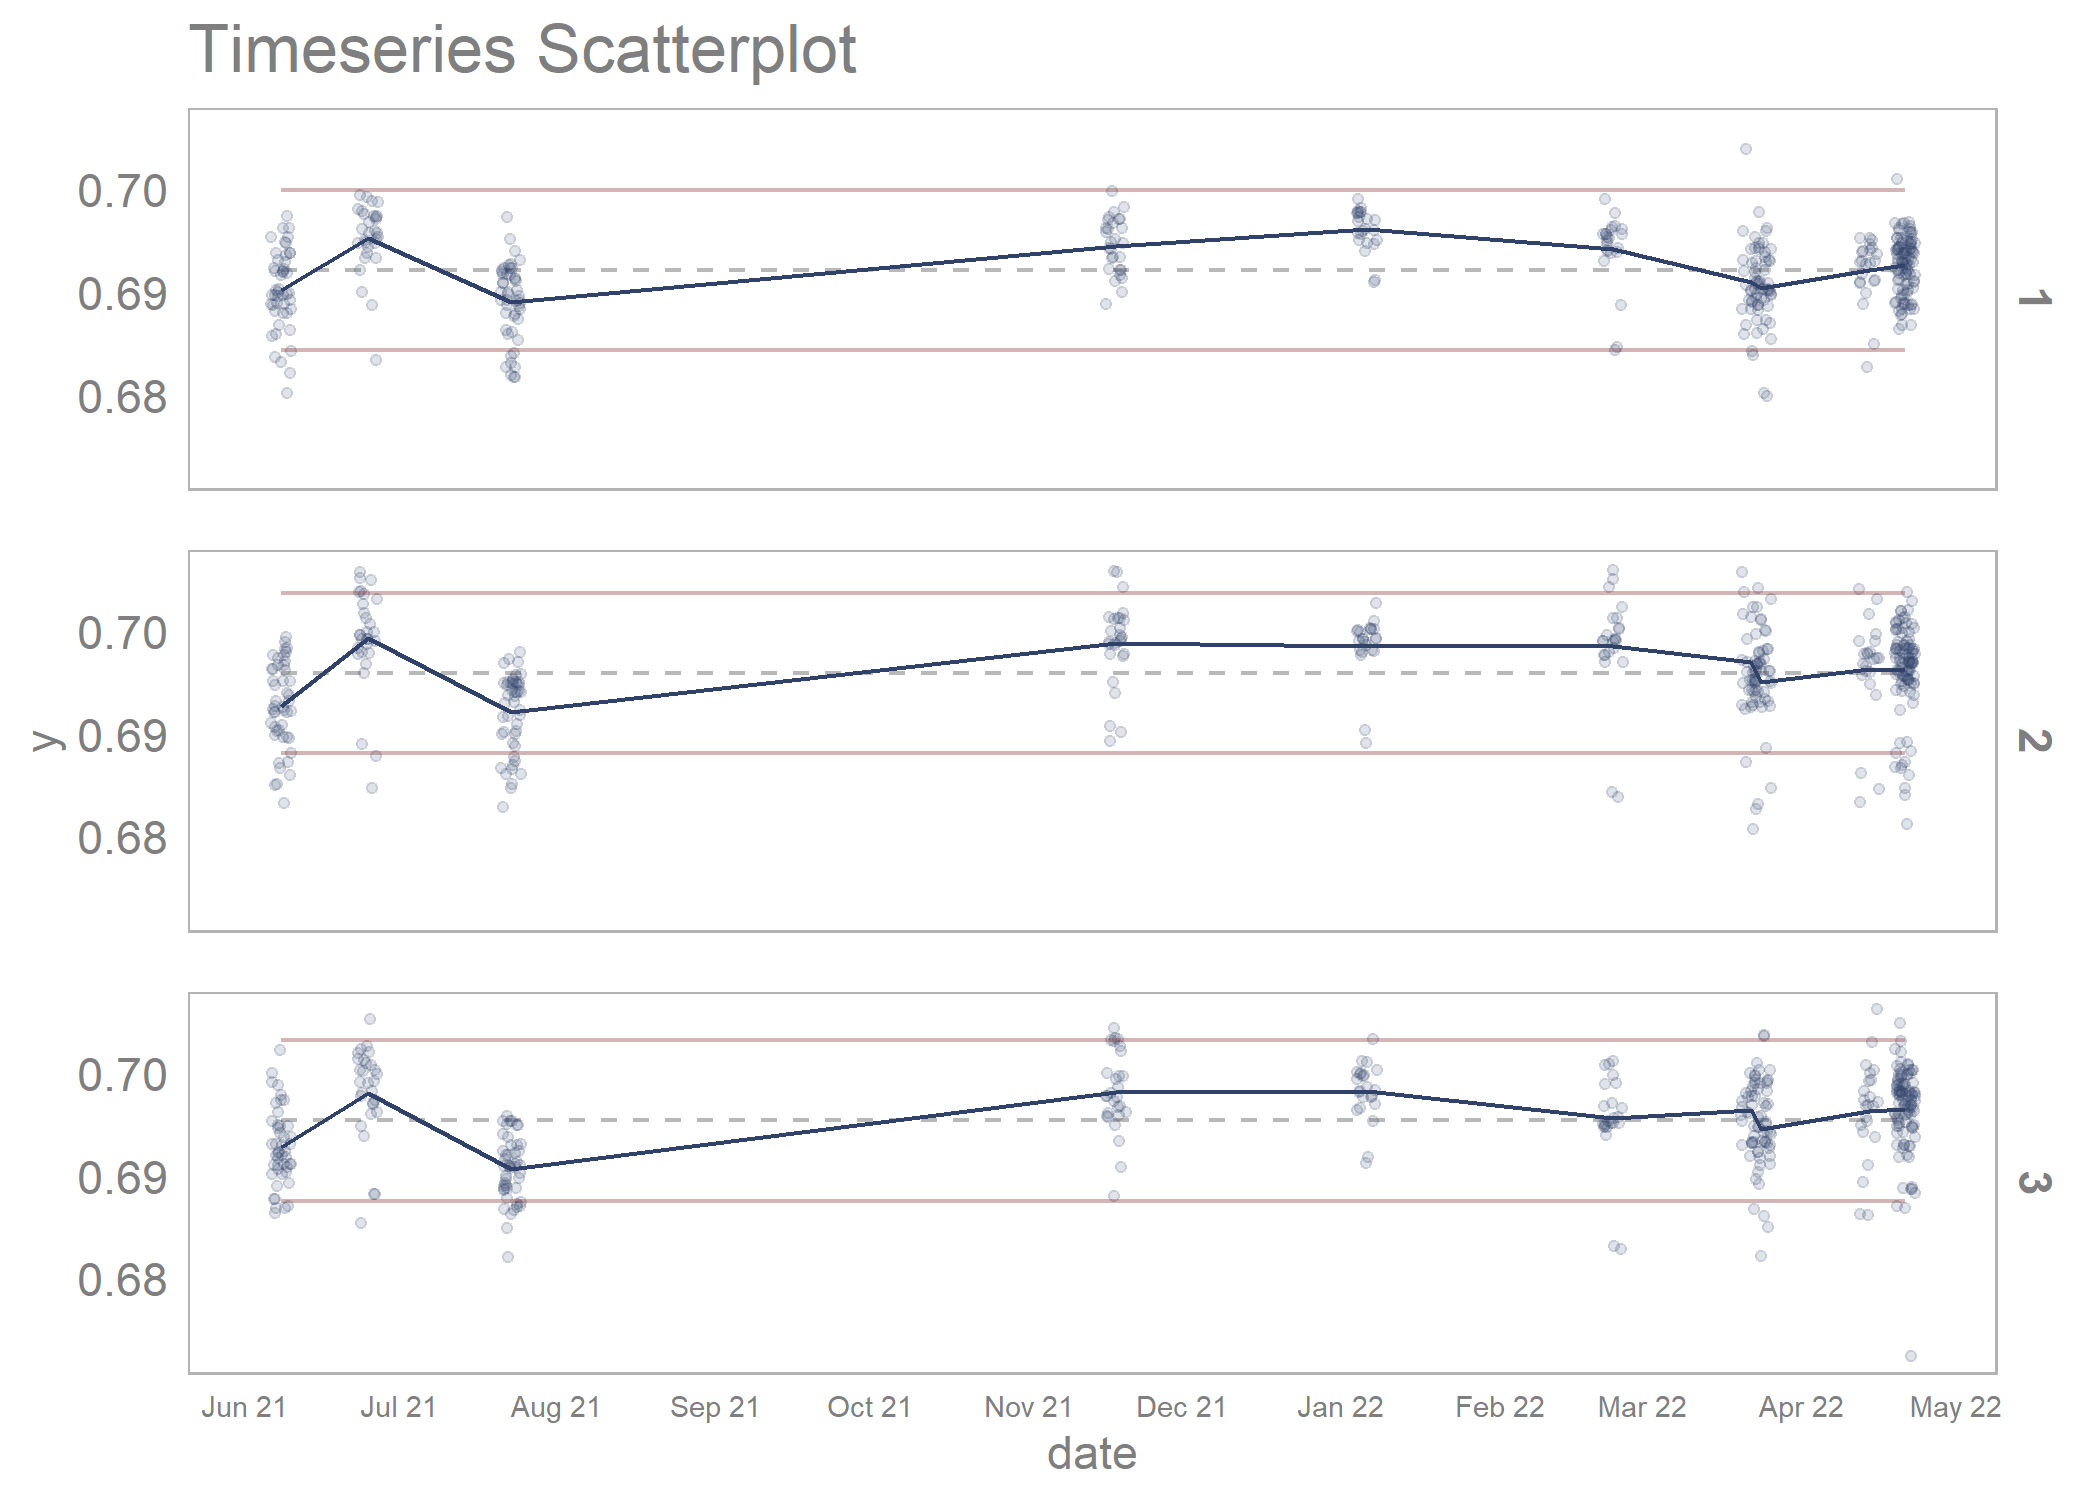
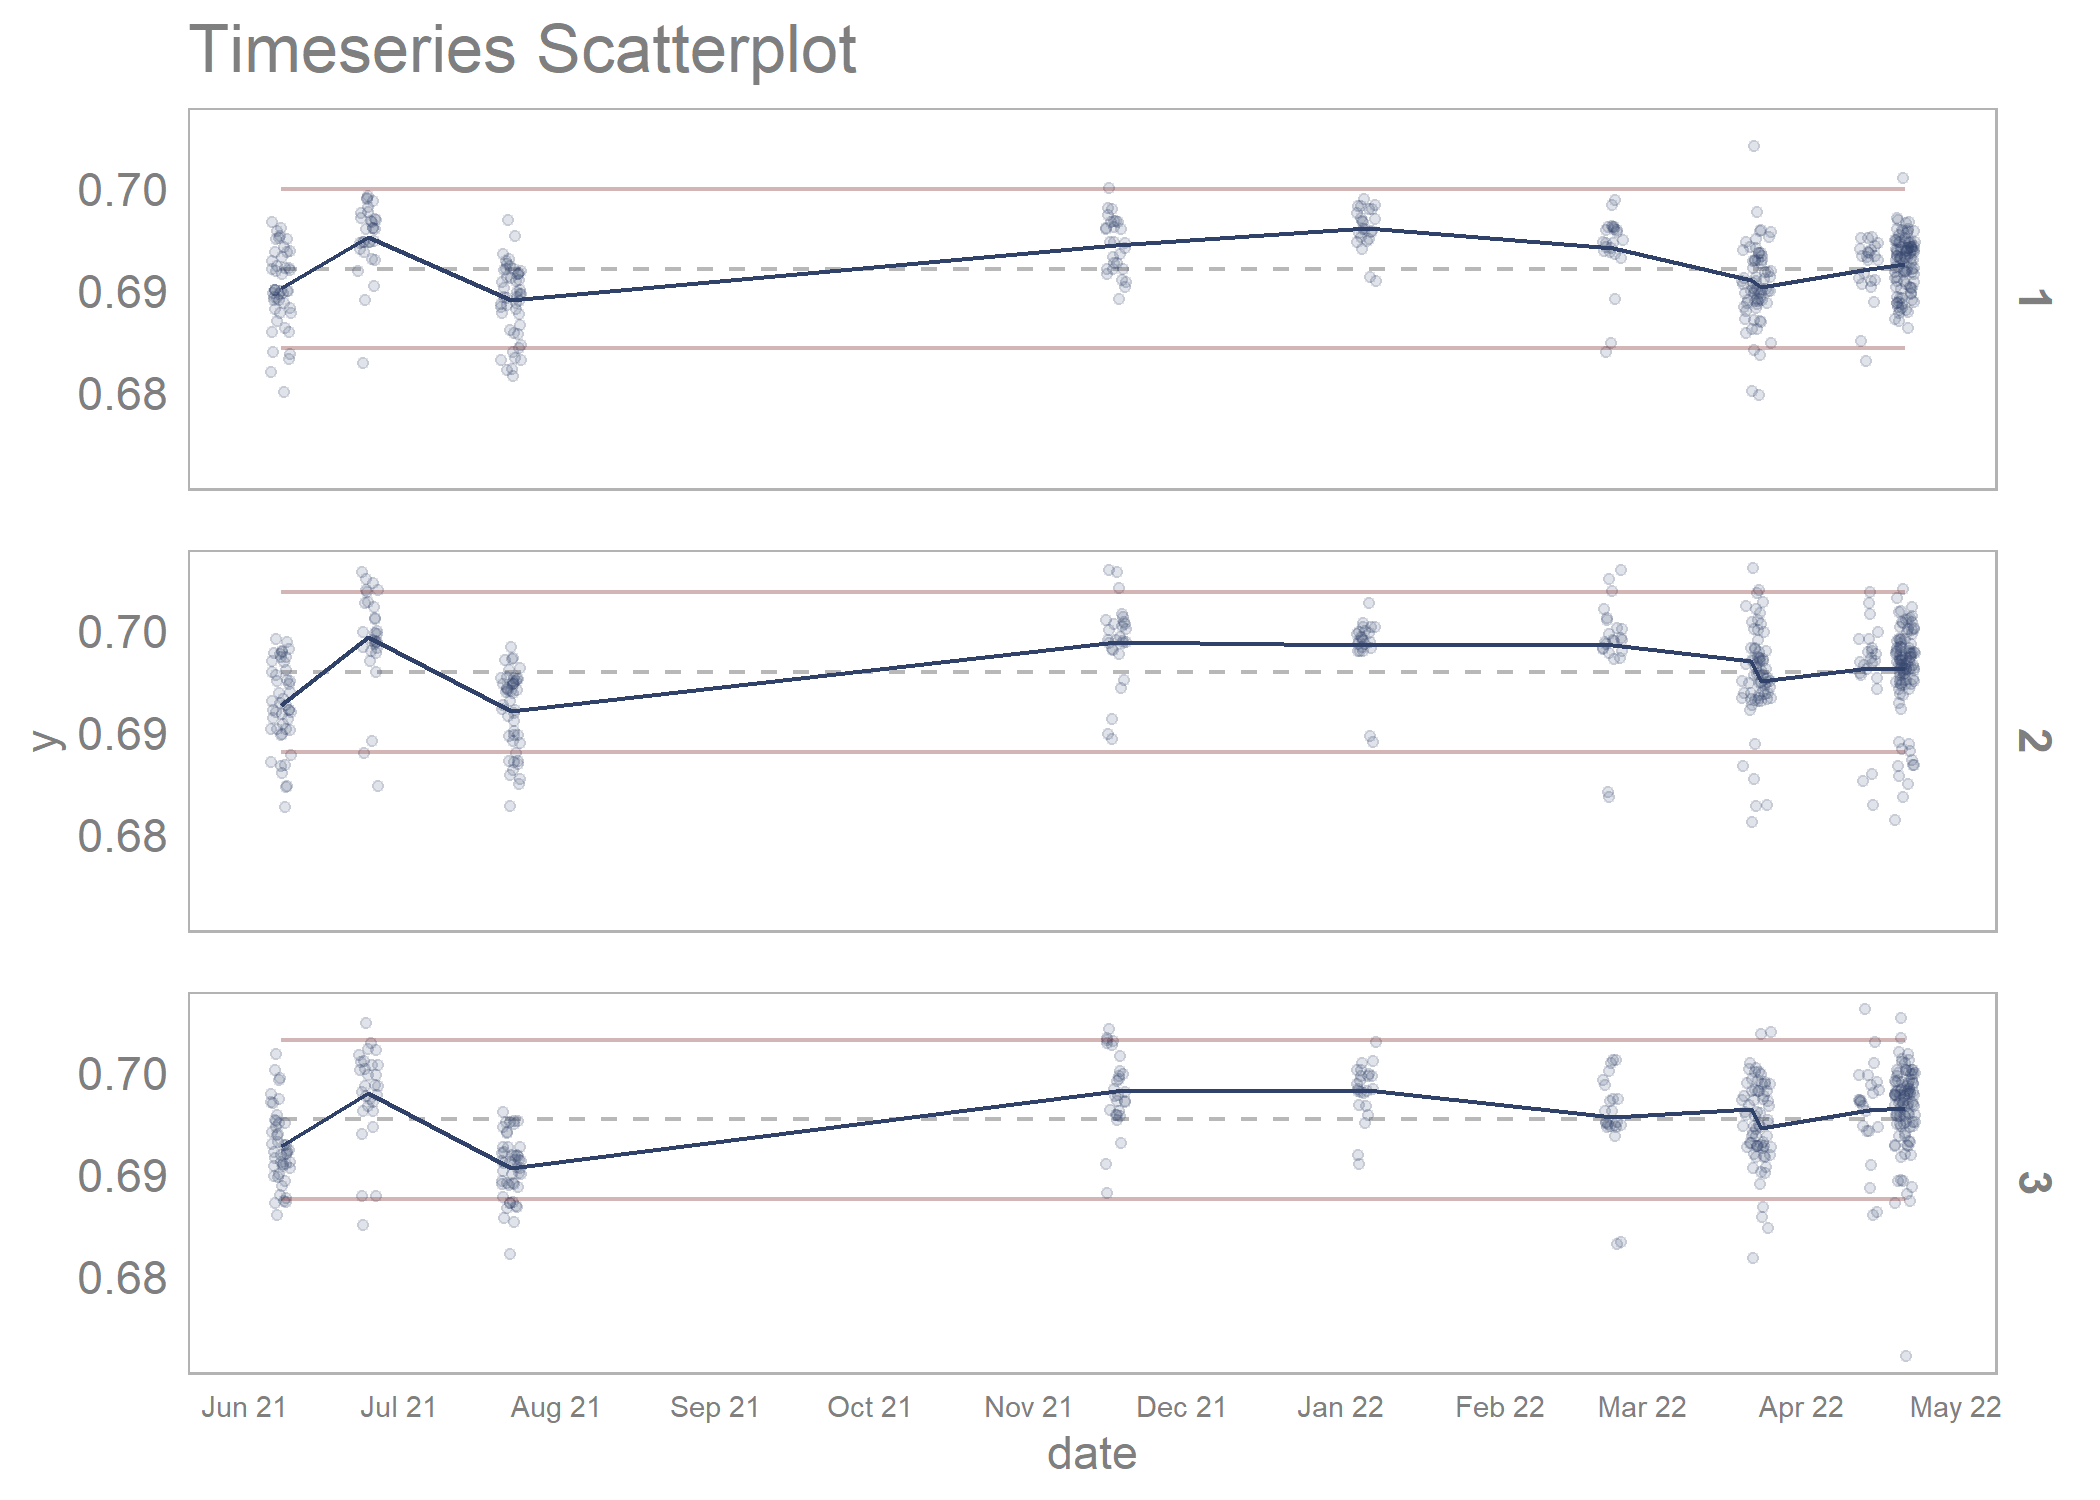
updatec rmd

diff --git a/README.md b/README.md
@@ -177,7 +177,7 @@ timeseries_scatterplot_data %>%
                               limits         = TRUE, 
                               alpha          = 0.15,
                               line_size      = 0.5, 
-                              x_axis_text = "small",
+                              x_axis_text    = 7,
                               interactive    = FALSE)
 #> Joining, by = c("date", "cavity")
 #> Warning: Removed 6 rows containing missing values (geom_point).
